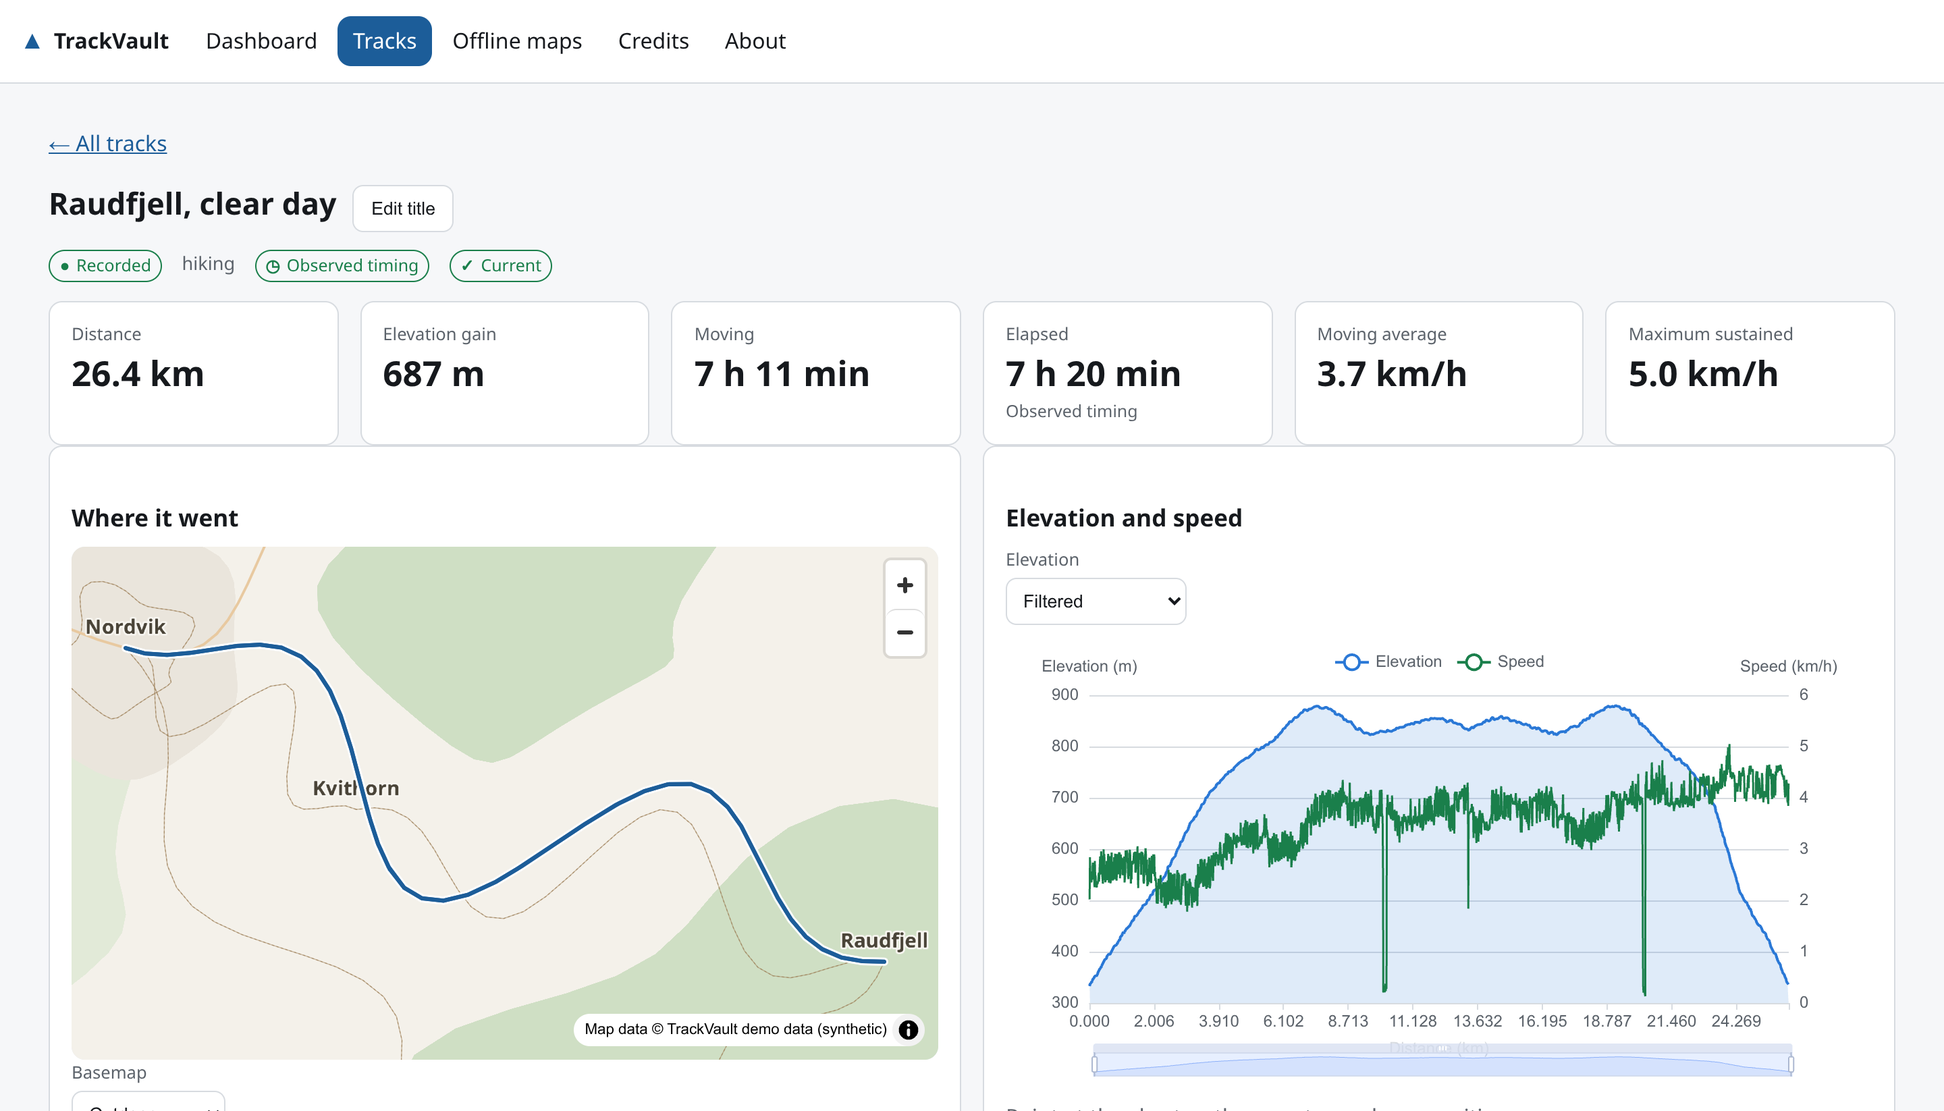
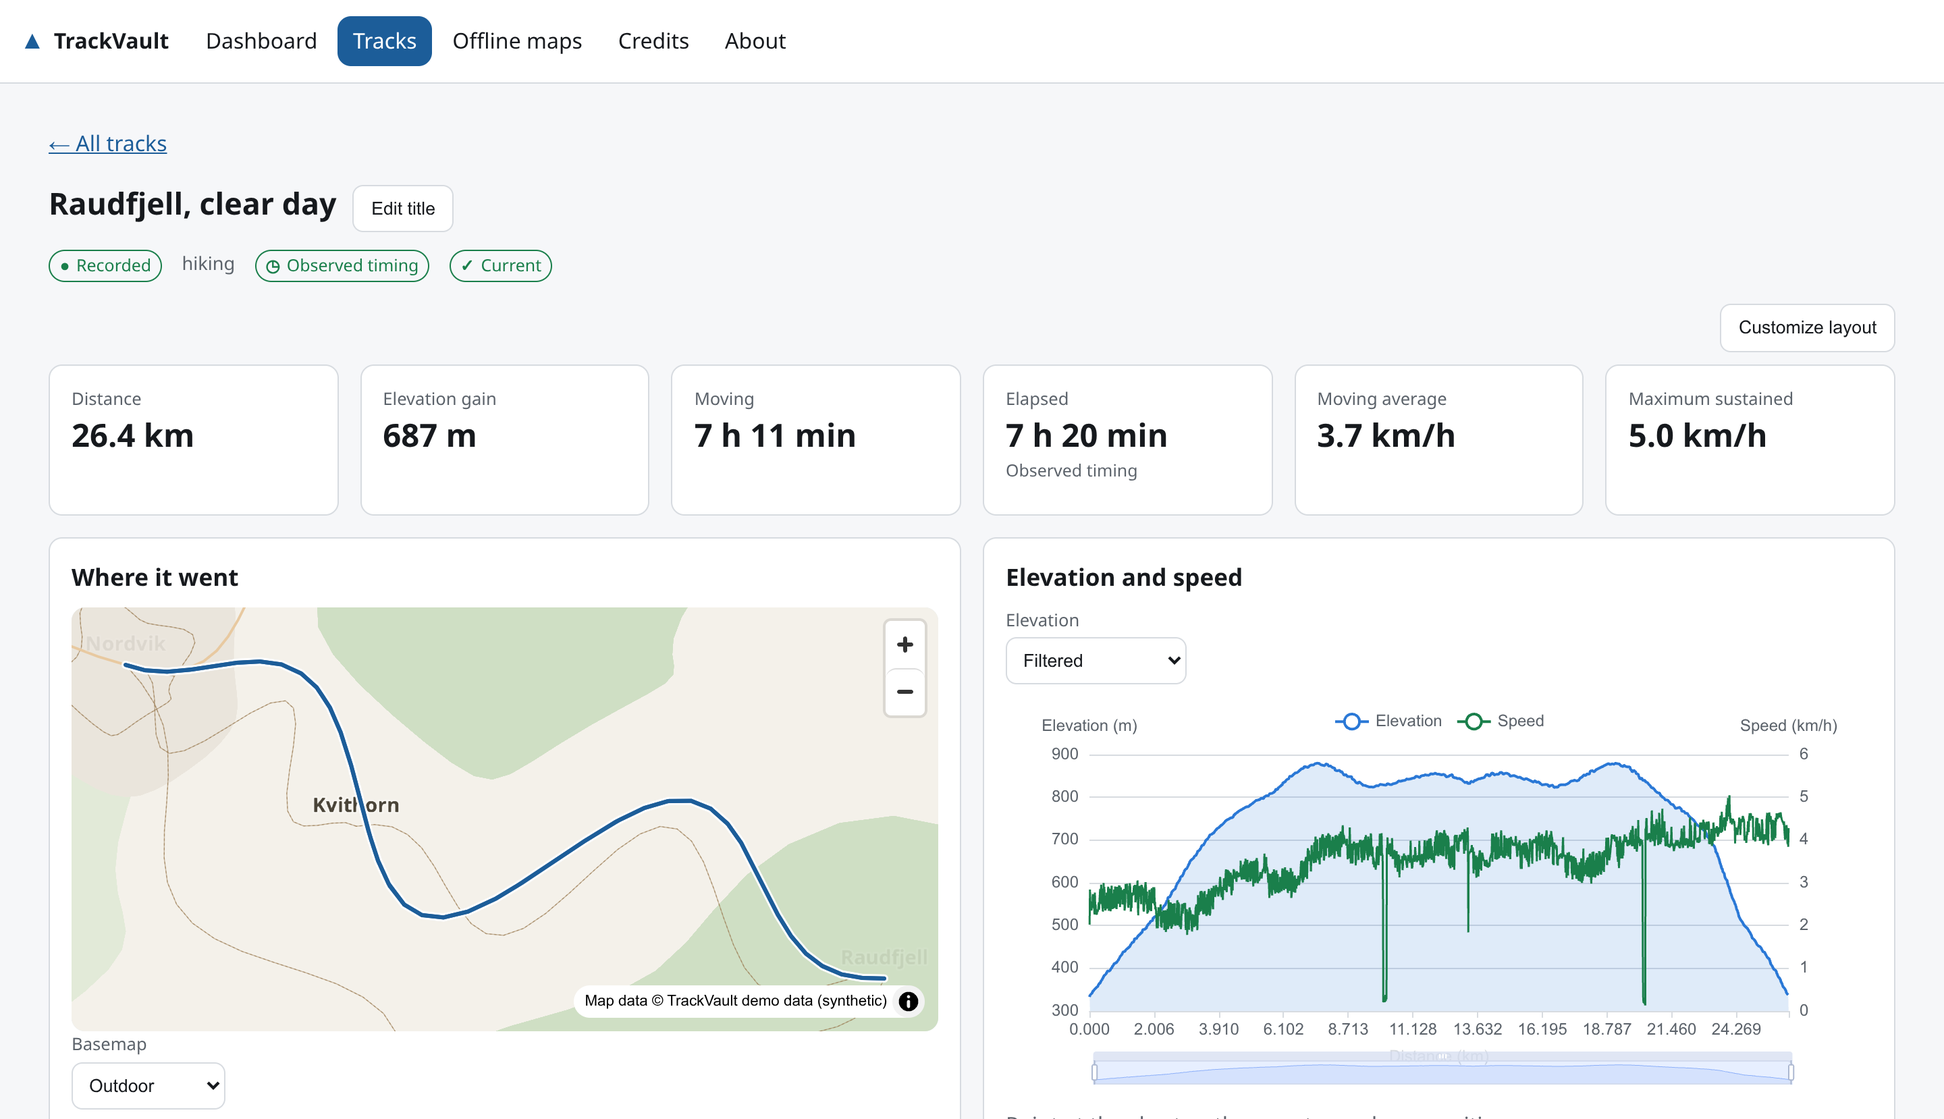
Document the arrangeable track report
ADR 0014 records why the report is a grid of whole cells rather than
floating windows, why the arrangement is stored by the archive rather
than by one browser, what stays unarrangeable and why, how a narrower
screen gets an arrangement nobody made, and what two tabs arranging at
once do to each other.

The architecture document gains the browser-side rule and the authority
row -- `page_layouts` is the owner's and presentation only -- the user
guide gains a section on arranging the page with a screenshot of it, and
the API list gains the three endpoints.

The screenshot script takes that picture, and the two track-page images
are regenerated: the report now carries a Customize layout button, and
the sensor chart spans the width rather than sitting beside the
classification panel.

diff --git a/docs/adr/0014-arrangeable-track-report.md b/docs/adr/0014-arrangeable-track-report.md
@@ -1,0 +1,228 @@
+# ADR 0014: An arrangeable track report, stored by the archive
+
+## Status
+
+Accepted (2026-09-19).
+
+Extends ADR 0008 and ADR 0009, which built the browser application and the
+user-owned corrections. Nothing they decided changes: the report is still one
+component rendered in two places, the hovered sample still lives outside React,
+and browser state is still never business authority. This adds a second kind of
+user-owned data — how the owner wants the report laid out — and the rule that
+keeps it presentation.
+
+## Context
+
+The track report had one arrangement, for everybody: six metric cards, a map
+beside a profile chart, then the classification, the source and the derivation
+panels, in that order. It is a defensible order — it is the order somebody
+reads a track in — and it is the wrong one for at least two real uses.
+
+Somebody planning routes wants the map large and the three duration figures out
+of the way. Somebody comparing efforts wants the numbers and the profile
+together and does not look at the source panel from one month to the next. On a
+1440-pixel screen the map was 6 of 12 columns whatever the track was, and the
+only way to get a bigger one was to stop using the page.
+
+The owner asked for widgets: free sizes, free positions.
+
+Three things had to be decided before any of it could be built.
+
+**How free is free.** Freely positioned, overlapping windows are how a desktop
+works and not how a page works. They collide, they leave holes, they have no
+answer for a narrower screen, and they cannot be operated by a keyboard.
+
+**Where the arrangement lives.** It is presentation, so the obvious home is the
+browser. It is also somebody's work: kept in `localStorage` it would differ per
+device, vanish with the browser's data, and miss every backup — and this
+project's whole argument about user-owned data is that a correction is not the
+archive's to lose.
+
+**What must not be arrangeable.** A report where the analysis notice can be
+hidden is a report that quotes a stale number with its caveat torn off.
+
+## Decision
+
+### 1. A grid of whole cells, not floating windows
+
+Twelve columns on a wide screen, rows of one fixed height, and every widget on
+whole cells. Dragging snaps; the tiles it lands on move out of the way; nothing
+overlaps and nothing floats over a gap.
+
+```
+no overlap    two tiles never share a cell
+no gap        every tile sits as high as the tiles above it allow
+one place     every widget is placed or hidden, exactly once
+```
+
+A tile is exactly the size its owner chose, and content that does not fit
+scrolls inside it — "resize it and the text reflows" would be a page that
+overrules the size somebody just set. The exception is a narrow screen, where
+rows grow to fit instead: a scrolling box inside a scrolling phone is nobody's
+choice.
+
+Three rules the arrangement follows in one direction only. A tile dragged
+*down* past a neighbour hops that neighbour into the room it left, because
+otherwise the neighbour would be pushed ahead of it and everything would rise
+back to where it started. A tile dropped exactly onto one of the same size
+trades places with it. Everything else is pushed below.
+
+The arithmetic is `web/src/layout/grid.ts` — pure functions over numbers,
+tested as invariants (nothing overlaps, nothing is lost, nothing can still
+rise) rather than as pinned coordinates, the way the movement and elevation
+algorithms are. The board component draws the result and decides nothing.
+
+### 2. No new dependency
+
+`react-grid-layout` and `gridstack.js` both do this. The rules put a small
+abstraction of our own ahead of a new dependency, and the cost here is genuinely
+small: the grid arithmetic is a few hundred lines of pure functions, the drag is
+pointer events, and the part that neither library gives for free — arrow-key
+moving, resizing and announcements — had to be written either way.
+
+### 3. The arrangement is stored by the archive, and it is presentation
+
+`page_layouts` (schema 11) holds one document per page beside a format version,
+and `/api/v1/layouts/track-detail` reads, replaces and forgets it. Because it is
+a row in the archive's database, a backup carries it and a restore brings it
+back, with no second storage mechanism and no export format to extend.
+
+The archive vouches for the *shape* and nothing else:
+
+```
+bounded        columns, positions, sizes and how many widgets a grid may name
+once           every widget placed or hidden exactly once
+disjoint       no two tiles on one cell
+plain keys     a widget is named `map` or `metric.distance`, never markup
+```
+
+What a widget *means* is the page's vocabulary, exactly as the colour of a map
+line is. A backend that validated widget names would be a backend holding a
+design system — the same mistake as assembling a MapLibre style in Python, which
+ADR 0008 refused for the same reason.
+
+A stored document is decoded through the domain types and anything that fails —
+malformed text, a field of the wrong type, a grid the domain refuses, or nesting
+deeper than the parser's own stack — is reported as unreadable rather than
+raised. A damaged timestamp costs the reading its date and nothing else: the
+arrangement is the work, when it was saved is a detail.
+
+Three answers come back, and `unreadable` is deliberately not folded into
+`default`: a stored document this build cannot read is reported as unreadable,
+left in place, and the page says so. Silently drawing the default would let the
+next save overwrite work nobody was told was there.
+
+Reset stores nothing rather than storing a copy of the default — a copy would
+freeze today's default into the archive and hide every later improvement behind
+a layout the owner never made.
+
+### 4. The report says what it says, wherever the widgets are
+
+The title, the state badges, the analysis notice and the timing caveat are above
+the board and cannot be moved or hidden. Map attribution is inside the map
+widget: the map can go anywhere, its credit goes with it. Arranging the page
+changes where a number is drawn, never which number it is.
+
+### 5. Reconciled with the widgets this build has
+
+A stored arrangement is untrusted input on the way out, the same way a stored
+analysis is:
+
+```
+a widget this page no longer has     forgotten
+a widget a later release added       shown, below what the owner arranged
+a size a widget cannot be read at    brought back inside its limits
+a grid with another column count     re-flowed, keeping its order
+```
+
+A new widget is *shown*, never silently hidden: the arrangement records what the
+owner hid on purpose, and a widget they have never seen is not one of those.
+Normalising is idempotent, so reading, drawing and saving again never drifts.
+
+### 6. One arrangement per width class, derived until it is made
+
+The width that decides is the width of the area the report is drawn in, not the
+window's: the same report is a page of its own and a row in the track list.
+
+```
+wide     >= 960px   12 columns
+medium   >= 600px    8 columns
+narrow    < 600px    2 columns -- every panel full width, small cards in pairs
+```
+
+Every class is optional, the widest included. A class nobody arranged is drawn
+by the page: its own default, or — for a narrower class — a derivation of the
+wide arrangement, same order with each widget at its own size for that width.
+Shrinking the wide sizes proportionally would give a phone a map one twelfth of
+a screen wide.
+
+A class is stored only once the owner arranges *that* class. Somebody who only
+rearranges their phone therefore stores a narrow arrangement and no wide one,
+and a later improvement to the wide default still reaches them — the same
+argument as reset storing nothing, applied per width class rather than per
+document. A document that arranges nothing at all is refused: that is what
+forgetting the arrangement is for.
+
+### 7. Three ways to arrange, and undo for all of them
+
+Pointer: drag by a widget's bar, resize by its corner, with the target cell
+shown under a dashed outline. Keyboard: focus a bar and use the arrow keys —
+Shift to resize — with the new position announced through a live region. Menu:
+Small, Medium, Large, Full width and Hide, one click each, for anybody who does
+not want to drag anything precisely.
+
+Reading is the default and nothing moves by accident: arranging starts with a
+button and ends with Done or Cancel. While arranging, widgets stay visible but
+inert, so dragging a map's tile cannot pan the map. Every step is undoable,
+Cancel discards, and a click on a link with unsaved changes asks first.
+
+The document order while arranging is the order the tiles had when it began, so
+a keyboard move never pulls the focused bar out from under the reader and a drag
+never re-inserts a map's canvas somewhere else in the page. Reading order is
+restored when arranging ends.
+
+### 8. Charts follow their box
+
+`Chart` observed the *window* for resizes, which is exactly wrong for a widget:
+the window never changes and the box does. It observes its own container now.
+The map already did.
+
+## Consequences
+
+- The report keeps its old arrangement as the default, so nothing changes for
+  anybody who never opens the editor, and the existing browser tests still
+  describe the page they were written for.
+- One arrangement per deployment. There is no authentication (ADR 0001), so
+  several people sharing an installation share the arrangement — the same
+  assumption the title corrections already make. Two tabs arranging at once
+  overwrite each other, last save wins; there is no version check, for the
+  same reason there is none on a title.
+- One arrangement for every track, rather than per track or per kind. A planned
+  route shows a dash where a recording shows a duration, which is what "missing
+  is not zero" already means; whether planned routes deserve their own
+  arrangement is a question worth real use before it is answered.
+- A widget added in a later release lands at the bottom of an arranged page.
+  That is deliberate and slightly untidy: the alternative is a widget nobody
+  discovers.
+- The board is generic. Nothing in `web/src/layout` knows what a track is, so a
+  second arrangeable page would be a second catalog — but no second page has
+  asked for one, and none is built.
+
+## Alternatives considered
+
+**Floating, freely positioned windows.** Rejected: overlapping panels, no
+answer for a narrower screen, and no keyboard story.
+
+**`localStorage`.** Rejected: per device, lost with the browser's data, absent
+from every backup. It is the owner's work, and the archive is where this
+project puts the owner's work.
+
+**A widget catalog in the backend.** Rejected: it would put the page's design
+vocabulary into the API, and every new widget would become a migration.
+
+**Per-track arrangements.** Deferred: it multiplies the thing to keep and makes
+"why does this track look different?" a question with an invisible answer.
+
+**Templates ("map first", "analysis", "compact").** Deferred until there is
+evidence that arranging once is too much work; the default and the per-widget
+sizes cover most of it.

diff --git a/docs/user/guide.md b/docs/user/guide.md
@@ -227,13 +227,13 @@ right now, stay exactly right.
 
 ### What the archive concluded, and why
 
-![The heart rate and cadence chart beside the classification panel, which lists the evidence found in the document and offers buttons to correct the kind](../images/track-evidence.png)
+![The heart rate and cadence chart above the classification panel, which lists the evidence found in the document and offers buttons to correct the kind](../images/track-evidence.png)
 
 If the recording carried **heart rate or cadence**, they get their own chart,
 passed through exactly as the sensors reported them. A gap is a reading the
 sensor missed; a cadence of zero is a reading, not a gap.
 
-Beside it, **what kind of track this is** shows its work. Every piece of
+Below it, **what kind of track this is** shows its work. Every piece of
 evidence the document carried is listed with what it argued for. Notice that
 several of them decide nothing on their own: a file having timestamps does not
 make it a recording, because a route planner writes plausible times onto
@@ -252,6 +252,45 @@ your own, and to keep a note.
 
 The file keeps saying what it said — your title is stored beside it, not written
 into it — and **Reset to source title** hands the display back to the document.
+
+### Arranging the page the way you read it
+
+![The track page while it is being arranged: each widget has a bar to drag it by and a corner to resize it, and a toolbar offers Add widget, Undo, Reset to default, Cancel and Done](../images/track-layout.png)
+
+Not everybody reads a track the same way. If you plan routes, you want a large
+map; if you compare efforts, you want the numbers and the profile together and
+rarely look at where the file came from.
+
+Press **Customize layout** and the page becomes a grid you can arrange:
+
+- **Drag a widget by its bar** to move it. The others make room, and nothing
+  ever ends up on top of anything else.
+- **Drag the corner** to resize it, or use the **⋯** menu for *Small*,
+  *Medium*, *Large* and *Full width* without aiming at anything.
+- **Hide** what you do not read from that same menu. **Add widget** brings it
+  back, with a line describing each one so you do not have to add it to find
+  out.
+- **Without a mouse**: move the focus to a widget's bar with Tab, then use the
+  arrow keys to move it and Shift with an arrow key to resize it. Each change is
+  read out.
+
+Nothing is saved until you press **Done**. **Undo** (or Ctrl+Z) takes back the
+last step, **Cancel** throws the lot away, and **Reset to default** puts back
+the arrangement TrackVault ships with. If you try to leave the page with changes
+you have not saved, you are asked first.
+
+The arrangement is stored in the archive rather than in the browser, so it is
+the same on your laptop and your phone, it survives clearing your browser data,
+and it is in your backup. A phone gets its own arrangement in two columns —
+every panel full width, the small cards in pairs — and it follows the one you
+made for the big screen until you arrange it separately there too. Each width is
+kept only once you have arranged it, so rearranging your phone leaves the big
+screen free to follow later improvements.
+
+What the page *says* stays where it is: the title, the badges and every warning
+about the numbers sit above the widgets and cannot be moved or hidden, and the
+map's credits travel with the map. Arranging changes where a number is drawn,
+never which number it is.
 
 ---
 

diff --git a/docs/technical/architecture.md b/docs/technical/architecture.md
@@ -322,6 +322,20 @@ no layer uses `icon-image`. Every URL in a composed style is same-origin.
 Attribution comes out of the installed package's own metadata and is rendered
 beside every map that is drawn. See `docs/legal/third-party-notices.md`.
 
+The track report is a **board of widgets the owner can arrange**: twelve columns
+on a wide screen, whole cells, drag or arrow keys to move, a corner or Shift and
+an arrow key to resize, and a menu for one-click sizes and hiding. The
+arrangement is stored by the *archive* (`page_layouts`, `/api/v1/layouts/track-detail`)
+rather than by one browser, because it is the owner's work and belongs in the
+backup with the rest of it — and it is **presentation only**: the archive
+vouches for the shape of a grid, and what a widget means stays the page's
+vocabulary, exactly as the colour of a map line does. What the report *says* is
+not arrangeable: the title, the state badges, the analysis notice and the timing
+caveat sit above the board, and map attribution travels inside the map widget.
+The arithmetic of moving, resizing, compacting and deriving a narrower
+arrangement is pure functions in `web/src/layout`, tested without a browser. See
+`docs/adr/0014-arrangeable-track-report.md`.
+
 A track list draws one small map per row, as a picture rather than a map
 component, and keeps the finished picture in the browser's own IndexedDB so a
 second visit does not draw it again. That store is **projection only** in the
@@ -1759,6 +1773,7 @@ Exactly one component owns each concern. Everything else is a projection.
 | Profile and map series | the current normalized geometry plus the installed analysis algorithms |
 | Presentation projections | decimation and simplification; never normalization, never written back |
 | Browser/frontend state | projection only |
+| The arrangement of a page | `page_layouts` — the owner's, presentation only; a widget's meaning stays the page's |
 | Installed map packages | a database row **and** a managed file that hashes to it — either alone is `INVALID` |
 | Map attribution | the installed package's own metadata, never a build-time string |
 | Which map draws behind a track | `SelectMapCoverage`, from installed coverage and the provider's region tree |

diff --git a/docs/user/reading-the-data.md b/docs/user/reading-the-data.md
@@ -82,6 +82,13 @@ If a track's metrics were derived by algorithms this build no longer runs, the
 headline figures are left blank and the page says why — while the map and the
 chart, which are derived now, stay exactly right.
 
+**Customize layout** turns the page into a grid you can arrange: move a widget
+by its bar or the arrow keys, resize it by its corner, hide what you do not
+read, and add it back later. The arrangement is kept by the archive, so it is
+the same on every device and it is in your backup; a narrow screen gets its own
+two-column version of it. The title, the badges and every warning about the
+numbers stay above the widgets, where no arrangement can move them.
+
 ## What the numbers mean
 
 All stored values are SI; the interface converts for reading and never back.
@@ -137,6 +144,9 @@ new ones.
 | `PUT /api/v1/tracks/{id}/classification` | Correct the kind: `{"kind": "recorded"}` |
 | `DELETE /api/v1/tracks/{id}/classification` | Withdraw the correction |
 | `PATCH /api/v1/tracks/{id}/metadata` | Your own title and note: `{"title": "…"}` |
+| `GET /api/v1/layouts/track-detail` | How you arranged the track page, or `default` when you have not |
+| `PUT /api/v1/layouts/track-detail` | Store an arrangement |
+| `DELETE /api/v1/layouts/track-detail` | Forget it, and draw the default again |
 | `GET /api/v1/statistics/years` | Which years this archive holds tracks in |
 | `GET /api/v1/statistics/year/{year}` | Total one year |
 | `GET /api/v1/statistics/year/{year}/monthly` | Total each of its twelve months |

diff --git a/docs/README.md b/docs/README.md
@@ -38,6 +38,7 @@ TrackVault. It stays short on purpose; everything it summarises is here in full.
 | [adr/0011-web-upload.md](adr/0011-web-upload.md) | Why the browser may offer a file to the archive, what bounds that endpoint, and why it is a caller of the import use case rather than a second path |
 | [adr/0012-export-archive-and-restore.md](adr/0012-export-archive-and-restore.md) | Three exports rather than one, why the archive is a plain tar.gz, the manifest and its stated omissions, and the validate-before-publish restore |
 | [adr/0013-automatic-import.md](adr/0013-automatic-import.md) | Why the server reads the import directory on an interval rather than through cron or a watcher, which files it takes and when, and why the content hash rather than a scan ledger keeps it from importing twice |
+| [adr/0014-arrangeable-track-report.md](adr/0014-arrangeable-track-report.md) | Why the track report is a grid of widgets rather than floating windows, why the arrangement is stored by the archive rather than by one browser, what must stay unarrangeable, and how a narrower screen gets an arrangement nobody made |
 | [legal/third-party-notices.md](legal/third-party-notices.md) | The canonical third-party dependency list, the licence policy and the audits that keep it honest, and what the map does and does not ship |
 
 Three documents are protected by executable contract tests in `tests/contract/`:
